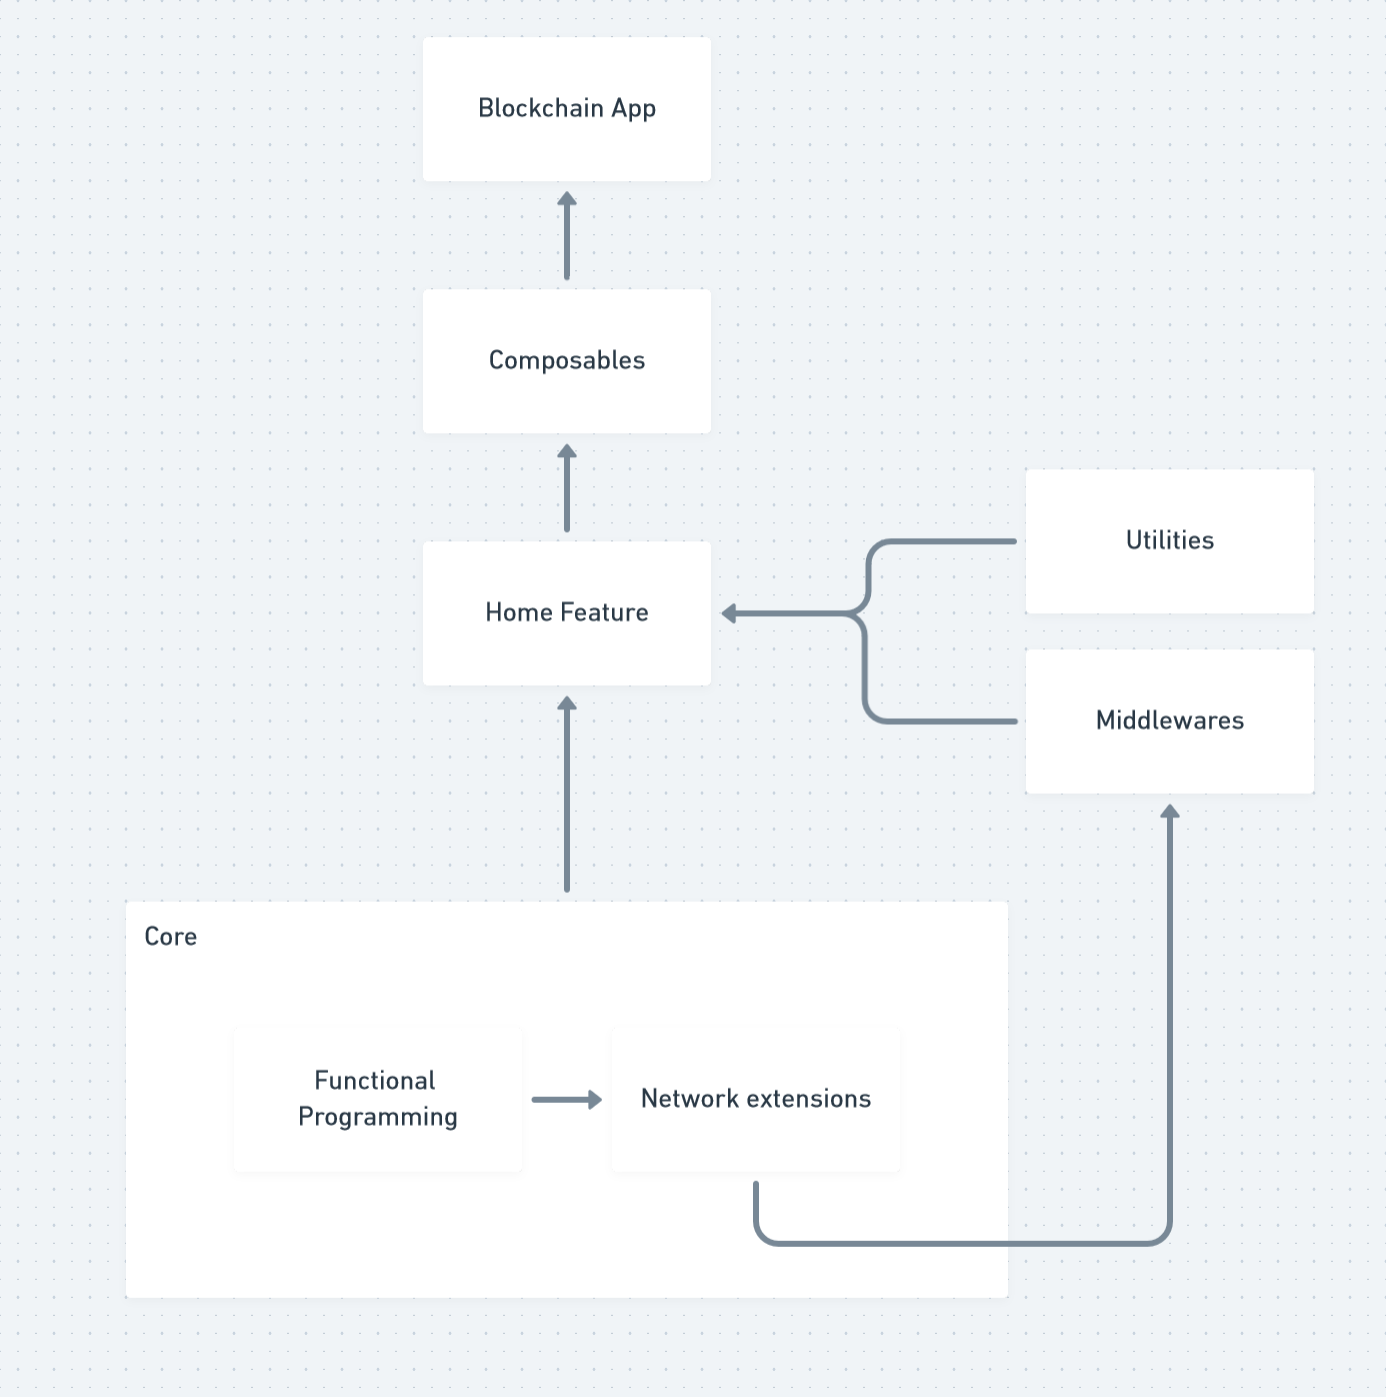
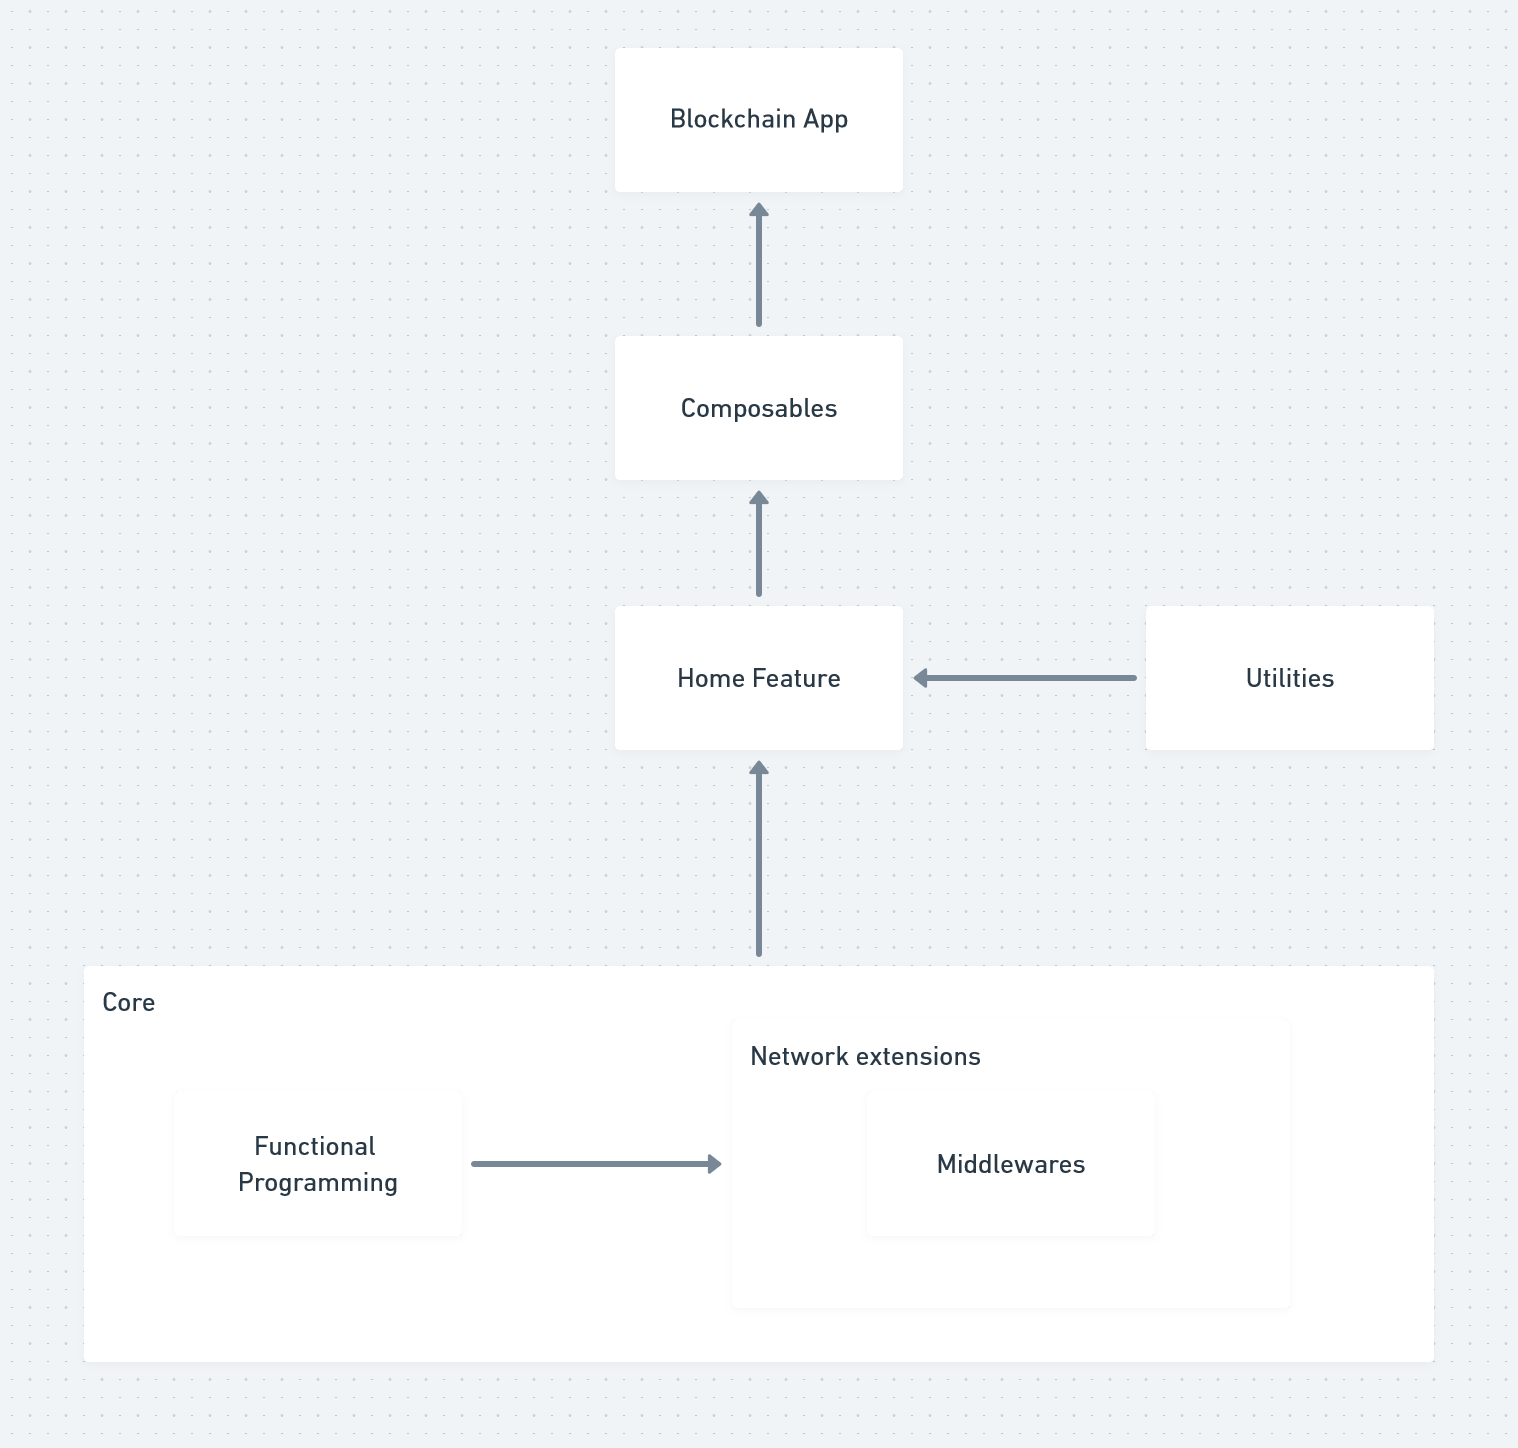
update README

diff --git a/README.md b/README.md
@@ -5,25 +5,25 @@ The graph is made with [whimsical](https://whimsical.com).
 
 ![GitHub Cards Preview](https://github.com/ChristopherME/Blockchain/blob/master/art/blockchain_app_architecture_diagram.png)
 
-## App Screenshot v0.0.1
-![GitHub Cards Preview](https://github.com/ChristopherME/Blockchain/blob/master/art/screenshot.jpg)
-
 ## Tech Stack
 
 This project is monolithic(for now) and has only one screen. However, all inner packages are well organized in order to be scalable and modularized in the following days. It uses MVVM as Software Design Patter and is using Jetpack Compose for the UI.
 
 - :core:functional-programming contains the Either sealed class & some helper methods. Either is the "wrapper" for handle Either an Error or a Success structure.
-- :core:network contains some extensions for execute safe retrofit calls (I write 3 articles about it -> Create a safe retrofit calls extension part [I](https://christopher-elias.medium.com/safe-retrofit-calls-extension-with-kotlin-coroutines-for-android-in-2021-part-i-d47e9e2962ad), [II](https://christopher-elias.medium.com/safe-retrofit-calls-extension-with-kotlin-coroutines-for-android-in-2021-part-ii-fd55842951cf), & [III](https://christopher-elias.medium.com/safe-retrofit-calls-extension-with-kotlin-coroutines-for-android-in-2021-part-iii-583249b0e86b))
-- :utils has utilities classes like a ResourceProvider for loading string resources & a NetworkChecker interface which implementation will tell us if the user is connected to some network.
-- :middlewares has middlewares that going to act as a firewall before executing any retrofit call. Only if all the middlewares are supplied then the retrofit call is allowed to be executed.
-- :features:home Home is our only feature, it has it's data sources & repositories interfaces for prepare the data and send it to the view model.
+- :core:network contains some middlewares & extensions for execute safe retrofit calls (I write 3 articles about it -> Create a safe retrofit calls extension part [I](https://christopher-elias.medium.com/safe-retrofit-calls-extension-with-kotlin-coroutines-for-android-in-2021-part-i-d47e9e2962ad), [II](https://christopher-elias.medium.com/safe-retrofit-calls-extension-with-kotlin-coroutines-for-android-in-2021-part-ii-fd55842951cf), & [III](https://christopher-elias.medium.com/safe-retrofit-calls-extension-with-kotlin-coroutines-for-android-in-2021-part-iii-583249b0e86b))
+- :core:network/middlewares middlewares are going to act as a firewall before executing any retrofit call. Only if all the middlewares are supplied then the retrofit call is allowed to be executed.
+- :utils has utilities interfaces like a ResourceProvider & ConnectivityUtils, who's implementations will be in the app module.
+- :features:home Home is our only feature (for now), it has it's data sources, mappers & repositories interfaces for prepare the data and send it to the HomeViewModel.
 - :ui:components: contains our composables.
-- :tests unit tests for repository, datasources, mappers using [mockk](https://github.com/mockk/mockk) & [JUnit4](https://junit.org/junit4/)
-- app HiltApplication in charge to create the app DI graph.
+- :tests unit tests for repository, datasources, mappers, etc. I also write articles about this. [Unit Tests](https://proandroiddev.com/understanding-unit-tests-for-android-in-2021-71984f370240) & [Instrumented Tests](https://proandroiddev.com/easy-instrumented-tests-ui-tests-for-android-in-2021-2e28134ff309)
+- :app module contains our HiltApplication in charge to create the app DI graph and the interface implementations from our libraries.
+
+## App Screenshot v0.0.1
+![GitHub Cards Preview](https://github.com/ChristopherME/Blockchain/blob/master/art/screenshot.jpg)
 
 ## Development setup
 
-You require at least Android Studio Arctic Fox | 2020.3.1 Beta 3 Build #AI-203.7717.56.2031.7395685 for run this project. No API Keys need it.
+You require at least Android Studio Arctic Fox | 2020.3.1 Beta 3 Build #AI-203.7717.56.2031.7395685 for run this project. No API Keys required.
 
 ## Libraries
 
@@ -31,3 +31,24 @@ You require at least Android Studio Arctic Fox | 2020.3.1 Beta 3 Build #AI-203.7
 - Asynchronous processing using [Coroutines](https://kotlin.github.io/kotlinx.coroutines/)
 - Uses [Dagger-Hilt](https://developer.android.com/training/dependency-injection/hilt-android) for dependency Injection
 - Uses [Jetpack Compose](https://developer.android.com/jetpack/compose) for latest declarative UI features
+- Uses [mockk](https://github.com/mockk/mockk) for mocking objects, interfaces & more.
+- Uses [JUnit4](https://junit.org/junit4/) for unit tests assertions & more.
+
+
+## 📃 License
+
+```
+Copyright 2021 Christopher Elias
+
+Licensed under the Apache License, Version 2.0 (the "License");
+you may not use this file except in compliance with the License.
+You may obtain a copy of the License at
+
+    http://www.apache.org/licenses/LICENSE-2.0
+
+Unless required by applicable law or agreed to in writing, software
+distributed under the License is distributed on an "AS IS" BASIS,
+WITHOUT WARRANTIES OR CONDITIONS OF ANY KIND, either express or implied.
+See the License for the specific language governing permissions and
+limitations under the License.
+```
